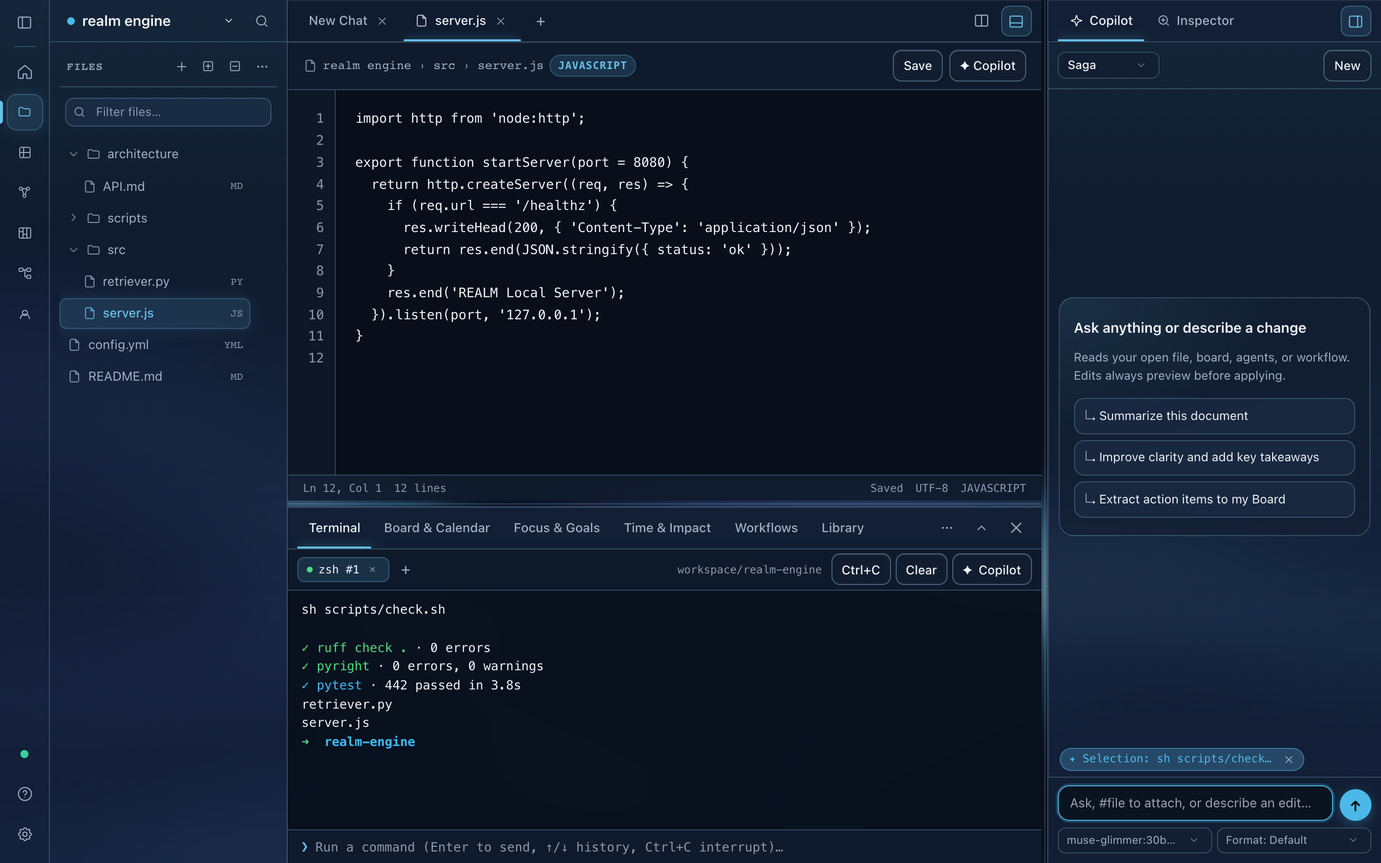
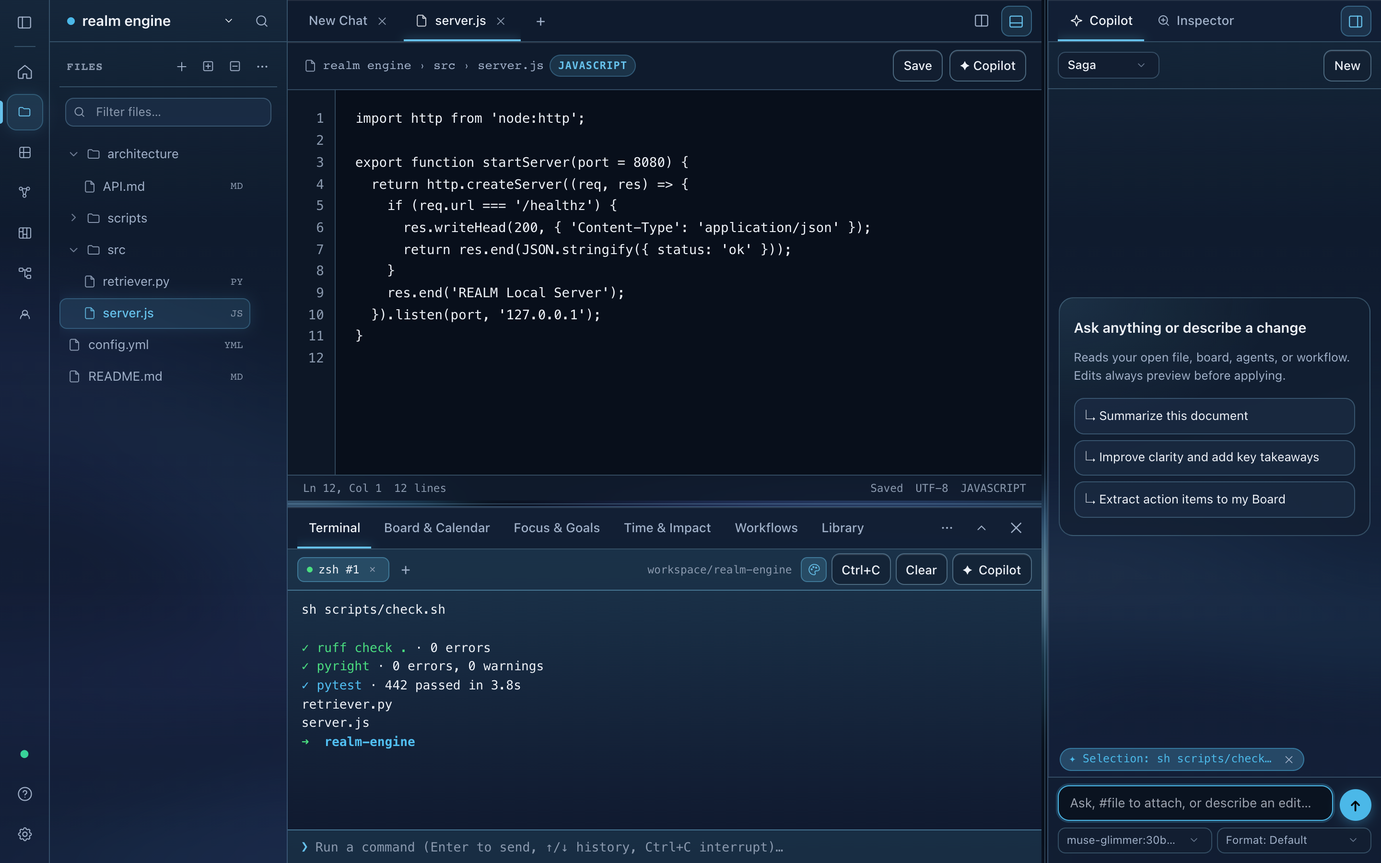
release(v0.10.0): add Theme-Synced Terminal toggle & bump version to 0.10.0

Changed region(s): [[0.1875, 0.6222, 0.7812, 0.9022]]

diff --git a/features/ui/terminal_styles.py b/features/ui/terminal_styles.py
@@ -1,33 +1,60 @@
-"""Integrated Bottom Panel Terminal styles with WCAG Dark & Light adaptive ANSI color tokens."""
+"""Integrated Bottom Panel Terminal styles with Theme-Synced & Classic Neutral modes."""
 
 TERMINAL_STYLES_CSS: str = r"""<style id="realm-terminal-styles">
 :root {
-  --term-bg: light-dark(color-mix(in oklab, var(--surface-raised) 94%, transparent), color-mix(in oklab, var(--background) 92%, transparent));
+  --term-bg-top: light-dark(color-mix(in oklab, var(--surface-raised) 91%, var(--accent-seed) 9%), color-mix(in oklab, var(--surface-raised) 84%, var(--accent-seed) 16%));
+  --term-bg-bot: light-dark(color-mix(in oklab, var(--background) 93%, var(--accent-glow) 7%), color-mix(in oklab, var(--background) 90%, var(--accent-glow) 10%));
+  --term-bg: linear-gradient(180deg, var(--term-bg-top), var(--term-bg-bot));
+  --term-bar-bg: light-dark(color-mix(in oklab, var(--surface-raised) 84%, var(--accent-seed) 10%), color-mix(in oklab, var(--surface-raised) 74%, var(--accent-seed) 12%));
+  --term-border: color-mix(in oklab, var(--accent) 26%, var(--border-subtle));
+  --term-text: var(--text);
+  --term-muted: var(--text-muted);
+  --term-subtle: var(--text-subtle);
+  --term-prompt: var(--accent);
+  --term-pill-bg: color-mix(in oklab, var(--accent) 18%, transparent);
+  --term-pill-border: color-mix(in oklab, var(--accent) 38%, transparent);
   --term-red: light-dark(#B91C1C, #F87171); --term-green: light-dark(#15803D, #4ADE80); --term-yellow: light-dark(#A16207, #FBBF24);
-  --term-blue: light-dark(#1D4ED8, #60A5FA); --term-magenta: light-dark(#7E22CE, #C084FC); --term-cyan: light-dark(#0369A1, #38BDF8);
+  --term-blue: light-dark(color-mix(in oklab, #1D4ED8 68%, var(--accent-light)), color-mix(in oklab, #60A5FA 65%, var(--accent-dark)));
+  --term-magenta: light-dark(color-mix(in oklab, #7E22CE 72%, var(--accent-glow)), color-mix(in oklab, #C084FC 68%, var(--accent-glow)));
+  --term-cyan: light-dark(color-mix(in oklab, #0369A1 55%, var(--accent-light)), color-mix(in oklab, #38BDF8 52%, var(--accent-dark)));
+}
+#bottom-terminal-pane[data-term-theme="neutral"] {
+  --term-bg-top: light-dark(#FAFAFB, #0D1117);
+  --term-bg-bot: light-dark(#F6F8FA, #0B0F14);
+  --term-bg: linear-gradient(180deg, var(--term-bg-top), var(--term-bg-bot));
+  --term-bar-bg: light-dark(#F1F3F5, #161B22);
+  --term-border: light-dark(#D0D7DE, #30363D);
+  --term-text: light-dark(#1F2328, #E6EDF3);
+  --term-muted: light-dark(#59636E, #8B949E);
+  --term-subtle: light-dark(#656D76, #6E7681);
+  --term-prompt: light-dark(#1F2328, #E6EDF3);
+  --term-pill-bg: light-dark(rgba(15, 23, 42, 0.08), rgba(240, 246, 252, 0.1));
+  --term-pill-border: light-dark(rgba(15, 23, 42, 0.2), rgba(240, 246, 252, 0.22));
+  --term-blue: light-dark(#1D4ED8, #58A6FF); --term-magenta: light-dark(#7E22CE, #BC8CFF); --term-cyan: light-dark(#0369A1, #39C5CF);
 }
 #bottom-terminal-pane[hidden], #bottom-panel-frame[hidden], .wb-embed-frame[hidden] { display: none !important; }
-.term-pane { flex: 1 1 auto; min-height: 0; height: 100%; display: flex; flex-direction: column; overflow: hidden; background: var(--term-bg); }
-.term-bar { flex: none; display: flex; align-items: center; justify-content: space-between; gap: 0.5rem; padding: 0.28rem 0.65rem; border-bottom: 1px solid var(--border-subtle); background: color-mix(in oklab, var(--surface-raised) 65%, transparent); }
+.term-pane { flex: 1 1 auto; min-height: 0; height: 100%; display: flex; flex-direction: column; overflow: hidden; background: var(--term-bg); color: var(--term-text); }
+.term-bar { flex: none; display: flex; align-items: center; justify-content: space-between; gap: 0.5rem; padding: 0.28rem 0.65rem; border-bottom: 1px solid var(--term-border); background: var(--term-bar-bg); }
 .term-sessions { display: flex; align-items: center; gap: 0.25rem; min-width: 0; overflow-x: auto; scrollbar-width: none; }
 .term-sessions::-webkit-scrollbar { display: none; }
-.term-pill { display: inline-flex; align-items: center; gap: 0.35rem; padding: 0.18rem 0.52rem; border-radius: 0.45rem; border: 1px solid transparent; background: transparent; color: var(--text-muted); font-family: ui-monospace, SFMono-Regular, Menlo, monospace; font-size: calc(0.74rem * var(--ui-scale, 1)); cursor: pointer; white-space: nowrap; transition: background-color 0.12s ease, color 0.12s ease, border-color 0.12s ease; }
-.term-pill:hover { background: var(--hover-tint); color: var(--text); }
-.term-pill[aria-selected="true"] { background: color-mix(in oklab, var(--accent) 14%, transparent); border-color: color-mix(in oklab, var(--accent) 32%, transparent); color: var(--text); font-weight: 500; }
+.term-pill { display: inline-flex; align-items: center; gap: 0.35rem; padding: 0.18rem 0.52rem; border-radius: 0.45rem; border: 1px solid transparent; background: transparent; color: var(--term-muted); font-family: ui-monospace, SFMono-Regular, Menlo, monospace; font-size: calc(0.74rem * var(--ui-scale, 1)); cursor: pointer; white-space: nowrap; transition: background-color 0.12s ease, color 0.12s ease, border-color 0.12s ease; }
+.term-pill:hover { background: var(--hover-tint); color: var(--term-text); }
+.term-pill[aria-selected="true"] { background: var(--term-pill-bg); border-color: var(--term-pill-border); color: var(--term-text); font-weight: 500; }
 .term-pill-dot { width: 0.42rem; height: 0.42rem; border-radius: 999px; background: var(--term-green); flex-shrink: 0; }
-.term-pill-dot.is-exited { background: var(--text-subtle); }
-.term-pill-x { display: inline-flex; align-items: center; justify-content: center; width: 1rem; height: 1rem; border-radius: 999px; font-size: 0.68rem; color: var(--text-subtle); }
-.term-pill-x:hover { background: var(--hover-tint); color: var(--text); }
+.term-pill-dot.is-exited { background: var(--term-subtle); }
+.term-pill-x { display: inline-flex; align-items: center; justify-content: center; width: 1rem; height: 1rem; border-radius: 999px; font-size: 0.68rem; color: var(--term-subtle); }
+.term-pill-x:hover { background: var(--hover-tint); color: var(--term-text); }
 .term-bar-right { display: flex; align-items: center; gap: 0.3rem; flex-shrink: 0; }
-.term-cwd { max-width: 16rem; overflow: hidden; text-overflow: ellipsis; white-space: nowrap; font-family: ui-monospace, SFMono-Regular, Menlo, monospace; font-size: calc(0.71rem * var(--ui-scale, 1)); color: var(--text-subtle); padding-inline: 0.3rem; }
-.term-out { flex: 1 1 auto; min-height: 0; overflow-y: auto; overscroll-behavior: contain; margin: 0; padding: 0.65rem 0.9rem; font-family: ui-monospace, SFMono-Regular, Menlo, Monaco, Consolas, monospace; font-size: calc(0.82rem * var(--ui-scale, 1)); line-height: 1.5; color: var(--text); white-space: pre-wrap; word-break: break-word; user-select: text; -webkit-user-select: text; cursor: text; }
-.term-input-row { flex: none; display: flex; align-items: center; gap: 0.45rem; padding: 0.38rem 0.85rem; border-top: 1px solid var(--border-subtle); background: color-mix(in oklab, var(--surface-raised) 74%, transparent); }
-.term-prompt { font-family: ui-monospace, SFMono-Regular, Menlo, monospace; font-size: calc(0.84rem * var(--ui-scale, 1)); font-weight: 700; color: var(--accent); user-select: none; flex-shrink: 0; }
-.term-input { flex: 1 1 auto; min-width: 0; border: 0; outline: none; background: transparent; color: var(--text); font-family: ui-monospace, SFMono-Regular, Menlo, Monaco, Consolas, monospace; font-size: calc(0.83rem * var(--ui-scale, 1)); }
-.term-input::placeholder { color: var(--text-subtle); }
+.term-cwd { max-width: 16rem; overflow: hidden; text-overflow: ellipsis; white-space: nowrap; font-family: ui-monospace, SFMono-Regular, Menlo, monospace; font-size: calc(0.71rem * var(--ui-scale, 1)); color: var(--term-subtle); padding-inline: 0.3rem; }
+#term-theme-btn[aria-pressed="true"] { border-color: var(--term-pill-border); background: var(--term-pill-bg); color: var(--term-prompt); }
+.term-out { flex: 1 1 auto; min-height: 0; overflow-y: auto; overscroll-behavior: contain; margin: 0; padding: 0.65rem 0.9rem; font-family: ui-monospace, SFMono-Regular, Menlo, Monaco, Consolas, monospace; font-size: calc(0.82rem * var(--ui-scale, 1)); line-height: 1.5; color: var(--term-text); white-space: pre-wrap; word-break: break-word; user-select: text; -webkit-user-select: text; cursor: text; }
+.term-input-row { flex: none; display: flex; align-items: center; gap: 0.45rem; padding: 0.38rem 0.85rem; border-top: 1px solid var(--term-border); background: var(--term-bar-bg); }
+.term-prompt { font-family: ui-monospace, SFMono-Regular, Menlo, monospace; font-size: calc(0.84rem * var(--ui-scale, 1)); font-weight: 700; color: var(--term-prompt); user-select: none; flex-shrink: 0; }
+.term-input { flex: 1 1 auto; min-width: 0; border: 0; outline: none; background: transparent; color: var(--term-text); font-family: ui-monospace, SFMono-Regular, Menlo, Monaco, Consolas, monospace; font-size: calc(0.83rem * var(--ui-scale, 1)); }
+.term-input::placeholder { color: var(--term-subtle); }
 .ansi-b { font-weight: 600; } .ansi-d { opacity: 0.68; } .ansi-i { font-style: italic; } .ansi-u { text-decoration: underline; }
-.ansi-30, .ansi-90 { color: var(--text-subtle); } .ansi-31, .ansi-91 { color: var(--term-red); }
+.ansi-30, .ansi-90 { color: var(--term-subtle); } .ansi-31, .ansi-91 { color: var(--term-red); }
 .ansi-32, .ansi-92 { color: var(--term-green); } .ansi-33, .ansi-93 { color: var(--term-yellow); }
 .ansi-34, .ansi-94 { color: var(--term-blue); } .ansi-35, .ansi-95 { color: var(--term-magenta); }
-.ansi-36, .ansi-96 { color: var(--term-cyan); } .ansi-37, .ansi-97 { color: var(--text); }
+.ansi-36, .ansi-96 { color: var(--term-cyan); } .ansi-37, .ansi-97 { color: var(--term-text); }
 </style>"""

diff --git a/features/ui/theme_script.py b/features/ui/theme_script.py
@@ -220,6 +220,9 @@ function syncThemeFromWorkspace(cfg) {
   if (typeof setAmbientEffects === "function" && cfg && typeof cfg.ambient_effects === "boolean") {
     setAmbientEffects(cfg.ambient_effects, !isEmbed);
   }
+  if (typeof setTerminalThemeSync === "function" && cfg && typeof cfg.sync_terminal_theme === "boolean") {
+    setTerminalThemeSync(cfg.sync_terminal_theme, false);
+  }
   if (typeof applyLanguage === "function" && cfg && cfg.language) {
     applyLanguage(cfg.language, !isEmbed);
   }
@@ -235,9 +238,10 @@ function applyFixedGlobalColors(accent, glow) {
   persistAppearancePatch({ theme_mode: mode, theme_accent: accent, theme_glow: glow, sync_agent_palette: false });
 }
 function resetDynamicThemeDefaults() {
-  if (typeof workspaceConfig === "object" && workspaceConfig) { workspaceConfig.theme_mode = "system"; workspaceConfig.theme_accent = "#4BB8E8"; workspaceConfig.theme_glow = "#6366F1"; workspaceConfig.sync_agent_palette = true; }
+  if (typeof workspaceConfig === "object" && workspaceConfig) { workspaceConfig.theme_mode = "system"; workspaceConfig.theme_accent = "#4BB8E8"; workspaceConfig.theme_glow = "#6366F1"; workspaceConfig.sync_agent_palette = true; workspaceConfig.sync_terminal_theme = true; }
   setFixedGlobalTheme(false, false);
   if (typeof setAmbientEffects === "function") { setAmbientEffects(true, true); }
+  if (typeof setTerminalThemeSync === "function") { setTerminalThemeSync(true, false); safeStorageRemove("realm_term_theme_sync"); }
 }
 function renderPresetBars() {
   const markup = THEME_PRESETS.map(function (p) {
@@ -280,7 +284,7 @@ function bindAppearanceControls() {
   if (resetThemeBtn) {
     resetThemeBtn.addEventListener("click", function () {
       resetDynamicThemeDefaults();
-      persistAppearancePatch({ theme_mode: "system", theme_accent: "#4BB8E8", theme_glow: "#6366F1", sync_agent_palette: true, ambient_effects: true });
+      persistAppearancePatch({ theme_mode: "system", theme_accent: "#4BB8E8", theme_glow: "#6366F1", sync_agent_palette: true, sync_terminal_theme: true, ambient_effects: true });
     });
   }
   const resetAppearanceBtn = document.getElementById("reset-appearance-btn");
@@ -288,7 +292,7 @@ function bindAppearanceControls() {
     resetAppearanceBtn.addEventListener("click", async function () {
       syncAgentNameUI("Saga"); resetDynamicThemeDefaults();
       if (typeof applyReadingComfort === "function") { applyReadingComfort({ reading_font: "default", reading_scale: "md", reading_width: "standard", high_contrast_focus: false, reduce_motion: false }, true); }
-      persistAppearancePatch({ theme_mode: "system", theme_accent: "#4BB8E8", theme_glow: "#6366F1", sync_agent_palette: true, ambient_effects: true, agent_name: "Saga", reading_font: "default", reading_scale: "md", reading_width: "standard", high_contrast_focus: false, reduce_motion: false });
+      persistAppearancePatch({ theme_mode: "system", theme_accent: "#4BB8E8", theme_glow: "#6366F1", sync_agent_palette: true, sync_terminal_theme: true, ambient_effects: true, agent_name: "Saga", reading_font: "default", reading_scale: "md", reading_width: "standard", high_contrast_focus: false, reduce_motion: false });
       await resetCustomLogo();
     });
   }
@@ -303,7 +307,7 @@ function bindAppearanceControls() {
         const res = await areaFetch("/api/workspace/reset-defaults", { method: "POST" });
         const data = await safeJson(res);
         if (!res.ok) { throw new Error(data.detail || "Could not reset settings."); }
-        for (const k of ["color-scheme", "realm_theme_accent", "realm_theme_glow", "realm_ambient_effects", "realm_lang", "preferred_local_model"]) { safeStorageRemove(k); }
+        for (const k of ["color-scheme", "realm_theme_accent", "realm_theme_glow", "realm_ambient_effects", "realm_term_theme_sync", "realm_lang", "preferred_local_model"]) { safeStorageRemove(k); }
         if (typeof resetReadingComfortLocal === "function") { resetReadingComfortLocal(); }
         ragConfig = { retrieval_mode: "hybrid", top_k: 5, rrf_k: 60, temperature: 0.2 }; syncRagStudioUI();
         applyLogoUrl(data.logo_url || "/static/logo-512.png", false);

diff --git a/features/ui/test_appearance.py b/features/ui/test_appearance.py
@@ -48,18 +48,18 @@ def test_custom_logo_upload_validation_and_reset(area_client: TestClient, tmp_pa
 def test_appearance_endpoint_persists_theme_and_rejects_invalid_hex(area_client: TestClient) -> None:
     saved = area_client.post(
         "/api/workspace/appearance",
-        json={"theme_mode": "light", "theme_accent": "#A855F7", "theme_glow": "#38BDF8", "ambient_effects": False, "language": "de", "agent_name": "Lisbeth"},
+        json={"theme_mode": "light", "theme_accent": "#A855F7", "theme_glow": "#38BDF8", "ambient_effects": False, "sync_terminal_theme": False, "language": "de", "agent_name": "Lisbeth"},
     )
     assert saved.status_code == 200
     cfg = saved.json()["config"]
     assert cfg["theme_mode"] == "light" and cfg["theme_accent"] == "#A855F7" and cfg["theme_glow"] == "#38BDF8"
-    assert cfg["ambient_effects"] is False and cfg["language"] == "de" and cfg["agent_name"] == "Lisbeth"
+    assert cfg["ambient_effects"] is False and cfg["sync_terminal_theme"] is False and cfg["language"] == "de" and cfg["agent_name"] == "Lisbeth"
 
     # Partial update preserves previously saved theme/ambient fields
     lang_only = area_client.post("/api/workspace/appearance", json={"language": "es"})
     assert lang_only.status_code == 200
     merged = lang_only.json()["config"]
-    assert merged["language"] == "es" and merged["theme_accent"] == "#A855F7" and merged["ambient_effects"] is False
+    assert merged["language"] == "es" and merged["theme_accent"] == "#A855F7" and merged["ambient_effects"] is False and merged["sync_terminal_theme"] is False
 
     invalid = area_client.post(
         "/api/workspace/appearance",
@@ -97,7 +97,7 @@ def test_ui_exposes_adaptive_color_scheme_and_custom_theme_controls(area_client:
     for marker in (
         'id="hero-logo"', 'id="workspace-logo-input"', 'id="agent-studio-modal"', 'id="theme-accent-picker"', 'id="theme-glow-picker"',
         'data-theme-mode="system"', 'data-theme-mode="light"', 'id="ambient-aurora-canvas"', 'id="ambient-dots-canvas"', 'class="supernova-beam',
-        'id="theme-ambient-toggle"', 'data-lang-choice="de"', 'data-lang-choice="es"',
+        'id="theme-ambient-toggle"', 'id="theme-terminal-sync-toggle"', 'id="term-theme-btn"', 'data-lang-choice="de"', 'data-lang-choice="es"',
         'id="onboarding-step-1"', 'id="onboarding-step-4"', 'id="onboarding-skip-btn"',
         '"Realm"', '"Lisbeth"', '"Salander"', '"Wasp"', '"Plague"', '"Blomkvist"', '"Millennium"', '"Erika"', '"Harriet"',
         'id="cfg-new-folder-btn" type="button" data-i18n="new_area_btn"', 'openNewAreaDialog();', 'chat_err_badge',

diff --git a/features/ui/i18n_ide_script.py b/features/ui/i18n_ide_script.py
@@ -58,7 +58,11 @@ const I18N_IDE = {
     term_clear: "Clear",
     term_copilot_t: "Send terminal output to Copilot",
     term_ph: "Run a command (Enter to send, ↑/↓ history, Ctrl+C interrupt)…",
-    term_empty_copilot: "Run a command first to send terminal output to Copilot."
+    term_empty_copilot: "Run a command first to send terminal output to Copilot.",
+    term_theme_sync: "Sync Terminal Theme",
+    term_theme_sync_desc: "Match the integrated terminal to the active agent or global theme. Turn off for a classic neutral terminal.",
+    term_theme_btn_on: "Terminal synced with active theme (click for classic neutral)",
+    term_theme_btn_off: "Classic neutral terminal (click to sync with active theme)"
   },
   de: {
     ft_filter_ph: "Dateien filtern…",
@@ -116,7 +120,11 @@ const I18N_IDE = {
     term_clear: "Leeren",
     term_copilot_t: "Terminal-Ausgabe an Copilot senden",
     term_ph: "Befehl ausführen (Enter senden, ↑/↓ Verlauf, Strg+C abbrechen)…",
-    term_empty_copilot: "Führe zuerst einen Befehl aus, um Ausgabe an Copilot zu senden."
+    term_empty_copilot: "Führe zuerst einen Befehl aus, um Ausgabe an Copilot zu senden.",
+    term_theme_sync: "Terminal-Theme synchronisieren",
+    term_theme_sync_desc: "Passt das integrierte Terminal an das aktive Agenten- oder globale Theme an. Ausschalten für ein klassisch neutrales Terminal.",
+    term_theme_btn_on: "Terminal folgt aktivem Theme (klicken für klassisch neutral)",
+    term_theme_btn_off: "Klassisch neutrales Terminal (klicken für Theme-Synchronisation)"
   },
   es: {
     ft_filter_ph: "Filtrar archivos…",
@@ -174,7 +182,11 @@ const I18N_IDE = {
     term_clear: "Limpiar",
     term_copilot_t: "Enviar salida de terminal a Copilot",
     term_ph: "Ejecuta un comando (Enter enviar, ↑/↓ historial, Ctrl+C interrumpir)…",
-    term_empty_copilot: "Ejecuta un comando primero para enviar la salida a Copilot."
+    term_empty_copilot: "Ejecuta un comando primero para enviar la salida a Copilot.",
+    term_theme_sync: "Sincronizar tema de la terminal",
+    term_theme_sync_desc: "Adapta la terminal integrada al tema del agente activo o al tema global. Desactívalo para una terminal neutra clásica.",
+    term_theme_btn_on: "Terminal sincronizada con el tema activo (clic para neutra clásica)",
+    term_theme_btn_off: "Terminal neutra clásica (clic para sincronizar con el tema activo)"
   }
 };
 Object.keys(I18N_IDE).forEach(function (k) { Object.assign(I18N[k], I18N_IDE[k]); });

diff --git a/features/ui/terminal_script.py b/features/ui/terminal_script.py
@@ -8,6 +8,27 @@ const termBuffers = new Map();
 const termCmdHistory = [];
 let termHistIdx = -1;
 let termResizeTimer = null;
+let termSyncTheme = safeStorageGet("realm_term_theme_sync") !== "0";
+
+function setTerminalThemeSync(enabled, persist) {
+  termSyncTheme = enabled !== false;
+  const pane = document.getElementById("bottom-terminal-pane");
+  if (pane) { pane.setAttribute("data-term-theme", termSyncTheme ? "sync" : "neutral"); }
+  const btn = document.getElementById("term-theme-btn");
+  if (btn) {
+    btn.setAttribute("aria-pressed", String(termSyncTheme));
+    const lbl = termSyncTheme ? t("term_theme_btn_on") : t("term_theme_btn_off");
+    btn.title = lbl;
+    btn.setAttribute("aria-label", lbl);
+  }
+  const chk = document.getElementById("theme-terminal-sync-toggle");
+  if (chk) { chk.checked = termSyncTheme; }
+  if (typeof workspaceConfig === "object" && workspaceConfig) { workspaceConfig.sync_terminal_theme = termSyncTheme; }
+  if (persist !== false) {
+    safeStorageSet("realm_term_theme_sync", termSyncTheme ? "1" : "0");
+    if (typeof persistAppearancePatch === "function") { persistAppearancePatch({ sync_terminal_theme: termSyncTheme }); }
+  }
+}
 
 function termCleanControlText(raw) {
   let out = String(raw || "");
@@ -249,7 +270,10 @@ function sendTerminalOutputToCopilot() {
 function bindTerminalUX() {
   if (typeof IS_EMBED !== "undefined" && IS_EMBED) { return; }
   const form = document.getElementById("term-form"), inp = document.getElementById("term-input"), out = document.getElementById("term-output");
-  const newBtn = document.getElementById("term-new-btn"), intBtn = document.getElementById("term-int-btn"), clrBtn = document.getElementById("term-clear-btn"), cpBtn = document.getElementById("term-copilot-btn");
+  const newBtn = document.getElementById("term-new-btn"), intBtn = document.getElementById("term-int-btn"), clrBtn = document.getElementById("term-clear-btn"), cpBtn = document.getElementById("term-copilot-btn"), thBtn = document.getElementById("term-theme-btn"), thChk = document.getElementById("theme-terminal-sync-toggle");
+  setTerminalThemeSync(termSyncTheme, false);
+  if (thBtn) { thBtn.addEventListener("click", function () { setTerminalThemeSync(!termSyncTheme, true); }); }
+  if (thChk) { thChk.addEventListener("change", function () { setTerminalThemeSync(Boolean(thChk.checked), true); }); }
   if (form && inp) {
     form.addEventListener("submit", function (e) {
       e.preventDefault();

diff --git a/features/ui/appearance_template.py b/features/ui/appearance_template.py
@@ -46,6 +46,10 @@ APPEARANCE_FIELDS = r"""    <div class="flex flex-col gap-3 text-sm">
         <span><span data-i18n="ambient_toggle" class="block text-sm font-medium text-[#EEF2F8]">Ambient Background</span><span data-i18n="ambient_desc" class="block text-xs text-[#A0B0C8] mt-0.5">Subtle animated light gradient and interactive dot grid.</span></span>
         <input id="theme-ambient-toggle" type="checkbox" switch role="switch" checked class="shrink-0" />
       </label>
+      <label for="theme-terminal-sync-toggle" class="flex items-center justify-between gap-3 rounded-xl bg-[#04060F] border border-[rgba(238,242,248,0.10)] px-4 py-3 cursor-pointer select-none">
+        <span><span data-i18n="term_theme_sync" class="block text-sm font-medium text-[#EEF2F8]">Sync Terminal Theme</span><span data-i18n="term_theme_sync_desc" class="block text-xs text-[#A0B0C8] mt-0.5">Match the integrated terminal to the active agent or global theme. Turn off for a classic neutral terminal.</span></span>
+        <input id="theme-terminal-sync-toggle" type="checkbox" switch role="switch" checked class="shrink-0" />
+      </label>
     </div>
     <div class="flex flex-col gap-3 pt-3 border-t border-[rgba(238,242,248,0.08)] text-sm">
       <div class="flex items-center justify-between gap-2"><span data-i18n="a11y_section_title" class="text-xs uppercase tracking-wider text-[#738196] font-mono">Accessibility &amp; Reading Comfort</span></div>

diff --git a/features/ui/terminal_template.py b/features/ui/terminal_template.py
@@ -9,6 +9,10 @@ TERMINAL_PANE_HTML: str = (
     "</div>"
     '<div class="term-bar-right">'
     '<span id="term-cwd-pill" class="term-cwd" title="Working directory"></span>'
+    '<button id="term-theme-btn" type="button" class="wb-icon-btn ft-act-btn" aria-pressed="true" title="Terminal follows active theme (click for neutral classic)" aria-label="Sync terminal with active theme">'
+    '<svg width="14" height="14" viewBox="0 0 24 24" fill="none" stroke="currentColor" stroke-width="1.5" stroke-linecap="round" stroke-linejoin="round" aria-hidden="true">'
+    '<path d="M12 2.7a9.3 9.3 0 1 0 0 18.6 2.1 2.1 0 0 0 2.1-2.1c0-.5-.2-1-.5-1.4-.3-.4-.5-.9-.5-1.4a2.1 2.1 0 0 1 2.1-2.1h2.4a3.7 3.7 0 0 0 3.7-3.7C21.3 6 17.1 2.7 12 2.7Z"/>'
+    '<circle cx="7.5" cy="11.5" r="1"/><circle cx="10.5" cy="7.5" r="1"/><circle cx="15.5" cy="8.5" r="1"/></svg></button>'
     '<button id="term-int-btn" type="button" class="wb-btn wb-btn-sm" title="Send Ctrl+C interrupt" data-i18n="term_stop">Ctrl+C</button>'
     '<button id="term-clear-btn" type="button" class="wb-btn wb-btn-sm" data-i18n="term_clear">Clear</button>'
     '<button id="term-copilot-btn" type="button" class="wb-btn wb-btn-sm" data-i18n-title="term_copilot_t" title="Send terminal output to Copilot">✦ <span data-i18n="md_copilot_btn">Copilot</span></button>'

diff --git a/core/contracts.py b/core/contracts.py
@@ -54,6 +54,7 @@ class AppearanceUpdate(StrictModel):
     agent_name: str = Field(default="Saga", min_length=1, max_length=40)
     active_agent: str = Field(default="saga", min_length=1, max_length=64)
     sync_agent_palette: bool = True
+    sync_terminal_theme: bool = True
     language: Literal["en", "de", "es"] = "en"
     web_search_enabled: bool = False
     web_search_provider: Literal["duckduckgo", "ollama", "searxng"] = "duckduckgo"
@@ -77,8 +78,7 @@ class WorkspaceConfig(BudgetLimits, AppearanceUpdate):
     excluded_subfolders: dict[str, list[str]] = Field(default_factory=dict)
     @model_validator(mode="after")
     def synchronize_areas(self) -> "WorkspaceConfig":
-        raw = self.active_dirs if "active_dirs" in self.model_fields_set else ([self.knowledge_dir] if self.knowledge_dir else [])
-        self.active_dirs, self.knowledge_dir = (vals := list(dict.fromkeys(d for d in raw if d))), (vals[0] if vals else "")
+        self.active_dirs, self.knowledge_dir = (vals := list(dict.fromkeys(d for d in (self.active_dirs if "active_dirs" in self.model_fields_set else ([self.knowledge_dir] if self.knowledge_dir else [])) if d))), (vals[0] if vals else "")
         return self
 class ChatTurnBase(SearchQuery):
     query: str = Field(...)

diff --git a/core/version.py b/core/version.py
@@ -4,7 +4,7 @@ import importlib.metadata
 import tomllib
 from pathlib import Path
 
-_FALLBACK_VERSION = "0.9.0"
+_FALLBACK_VERSION = "0.10.0"
 
 
 def _resolve_version() -> str:

diff --git a/CHANGELOG.md b/CHANGELOG.md
@@ -6,12 +6,14 @@ The format follows [Keep a Changelog](https://keepachangelog.com/en/1.1.0/), and
 
 ## [Unreleased]
 
+## [0.10.0] - 2026-11-23
+
 ### Added
 - **Context-Aware Right Sidebar Copilot (`⌘J` / `Ctrl+J`):** Live context-aware assistant beside any open file, Work OS board, workflow, or agent team; per-reply Agent, Model & Output Format controls with provenance badges; **Highlight-to-Copilot** floating selection pill (`Ask Copilot` / `Edit Selection`); **`#file` multi-document autocomplete & chips** (keeping `@` for agents and `/` for commands); inline diff previews; persistent threads in `localStorage`; and **universal 1-click Apply & Undo** across document edits, notes, tasks, events, goals, workflows, and agents.
 - **Code & Config File Support + Code Editor Tab:** Native indexing, live watching, uploading, and ZIP backup/restore for 35+ source & config extensions (`.py`, `.js`, `.ts`, `.tsx`, `.json`, `.yml`, `.toml`, `.css`, `.html`, `.sql`, `.sh`, `.rs`, `.go`, `.java`, `.swift`, `.dart`, etc.) with automatic skipping of `node_modules/`, `.git/`, `dist/`, `.venv/`, `__pycache__/`, lockfiles, `.env*`, credentials, and REALM internal stores. Opens in a dedicated Code Editor tab with language badge, synced line-number gutter, `Ln/Col` status footer, and `⌘S` save.
 - **4-Zone IDE Workbench & VS Code Explorer:** Left Activity Rail (`Home`, `Files`, `Library`, `Graph`, `Work OS`, `Workflows`, `Agents & Formats`), inline file tree filter, `Expand All` / `Collapse All`, `Auto-reveal active file`, `Always open in new tab` / italic preview tab mode, `+ New File…`, file Rename & Duplicate, Folder context menu (`New file…`, `New note here`, `New subfolder…`, `Rename folder…`, `Delete folder`), Tab context menu (`Pin / Unpin` persisted per workspace, `Close Others`, `Close to the Right`, `Close Saved`, `Close All`), and **`⌘P` / `Ctrl+P` Quick Open File**.
 - **Live Status Indicators & App-Wide Unsaved Guard:** Background-streaming chat tabs and Recent Chats show a live **Working spinner** and transition to a glowing **Unread reply dot** when finished while viewing another tab; dirty files display a **Modified dot** on both tabs and the Files Explorer tree; an app-wide **Save / Discard / Keep editing** modal guards file tabs, workspace switches, 10 creation/edit dialogs, and desktop window close.
-- **Integrated Bottom Panel Terminal (`` Ctrl+` ``):** Added a zero-dependency local interactive shell inside the resizable Bottom Panel (`features/terminal/`, POSIX PTY on macOS/Linux + PowerShell/cmd on Windows), starting in the active workspace folder, with ANSI SGR colors, multiple shell sessions (capped at 6), command history (`↑`/`↓`), `Ctrl+C` interrupt, clean shutdown reaping, and 1-click **`✦ Send to Copilot`** to attach terminal output/errors into Copilot.
+- **Integrated Bottom Panel Terminal (`` Ctrl+` ``):** Added a zero-dependency local interactive shell inside the resizable Bottom Panel (`features/terminal/`, POSIX PTY on macOS/Linux + PowerShell/cmd on Windows), starting in the active workspace folder, with adaptive Dark/Light ANSI SGR colors, **Theme-Synced vs. Classic Neutral toggle** (toolbar palette button + `Settings → Appearance`), multiple shell sessions (capped at 6), command history (`↑`/`↓`), `Ctrl+C` interrupt, clean shutdown reaping, and 1-click **`✦ Send to Copilot`** to attach terminal output/errors into Copilot.
 - **Built-in Private AI Sidecar:** Managed local `llama-server` runtime with a 5-tier hardware-matched Apache 2.0 model catalog, idle sleep, GPU fallback, and zero-jargon setup inside Settings alongside live-discovered Ollama and cloud models.
 - **Work OS & Visual Workflows Studio:** Built-in Kanban Board & Calendar, Focus Seasons & Goals, Time & Impact ROI Ledger, and interactive node-graph Workflows Studio with scheduled runs and multi-agent pipelines.
 - **Gemini-Stitch Luminous Glass & Unified Global Theme Control:** Extended frosted glass + ambient aurora surface language across every workspace view (Dark & Light modes) and simplified theme precedence into a single **Fix Global Theme** switch in Appearance (follows active agent by default, or locks one theme everywhere).

diff --git a/docs/USER_GUIDE.md b/docs/USER_GUIDE.md
@@ -83,5 +83,5 @@ Open the right-hand **Engine Inspector** during any chat to see exactly what the
 ## 6. Appearance, Accessibility, Languages & Backups
 
 - **Languages:** Switch instantly between **English**, **Deutsch**, and **Español** in **Settings → Workspace** (all labels, starter prompts, confirmations, modals, and Quick Guide translate live).
-- **Themes & Reading Comfort (WCAG 2.1 AA):** Choose **System / Dark / Light (Clear)**, pick from **15 verified AA palettes**, toggle **Fix Global Theme** (off = follows each active agent's palette; on = locks one theme across every agent and view), customize Primary Accent and Ambient Glow, upload a custom workspace logo, select **Default / Hyperlegible / Dyslexia** fonts, adjust **S / M / L / XL** text size and **Focus / Normal / Wide** line measure, or enable **High-Contrast Focus**, **Reduce Motion**, and **Eco Mode**.
+- **Themes & Reading Comfort (WCAG 2.1 AA):** Choose **System / Dark / Light (Clear)**, pick from **15 verified AA palettes**, toggle **Fix Global Theme** (off = follows each active agent's palette; on = locks one theme across every agent and view), toggle **Sync Terminal Theme** (syncs the integrated terminal to the active theme, or switch off for a classic neutral terminal from either the terminal bar or Appearance), customize Primary Accent and Ambient Glow, upload a custom workspace logo, select **Default / Hyperlegible / Dyslexia** fonts, adjust **S / M / L / XL** text size and **Focus / Normal / Wide** line measure, or enable **High-Contrast Focus**, **Reduce Motion**, and **Eco Mode**.
 - **ZIP Backup & Restore:** Under **Settings → Workspace**, download a portable single-area `.zip` archive (Markdown, text, HTML, and source/config files, empty subfolders, workspace settings, chats, Work OS, Focus, Impact, and Workflows — excluding secrets, build folders, raw binaries, model weights, and host paths) and merge-restore safely with conflict protection and rollback.
